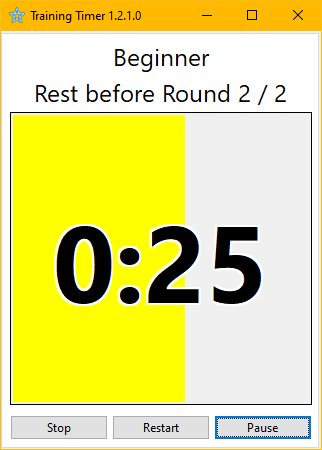
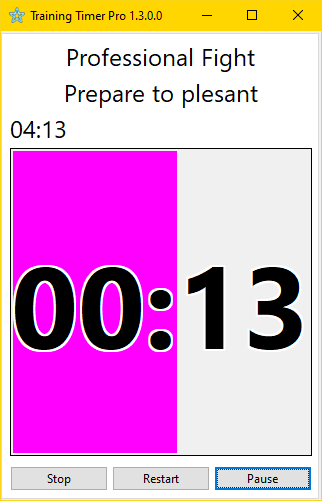
update Readme and Screenshots

diff --git a/README.md b/README.md
@@ -1,6 +1,7 @@
-# Training Timer
+# Training Timer Pro
 
-![screen 01](./data/screenshots/screen_01.png) ![screen 02](./data/screenshots/screen_02.png) ![screen 03](./data/screenshots/screen_03.png)
+![screen 01](./data/screenshots/screen_01.png) ![screen 02](./data/screenshots/screen_02.png)
+![screen 03](./data/screenshots/screen_03.png) ![screen 04](./data/screenshots/screen_04.png)
 
 This app is designed for tracking training time in various sports, from martial arts (boxing, MMA, etc.) to swimming and much more.
 
@@ -18,7 +19,15 @@ Use [Lazarus](https://www.lazarus-ide.org/) to compile.<br>
 Open in Lazarus `TrainingTimer.lpi` file and compile / run from Lazarus.<br>
 Make sure to first register [PlaySoundPackage Lazarus packages](https://packages.lazarus-ide.org).
 
-## Versions
+## History
+
+### Version 1.3
+
+Profesional settings
+
+### Version 1.2.1
+
+Bug fixes and optimization.
 
 ### Version 1.2.1
 
